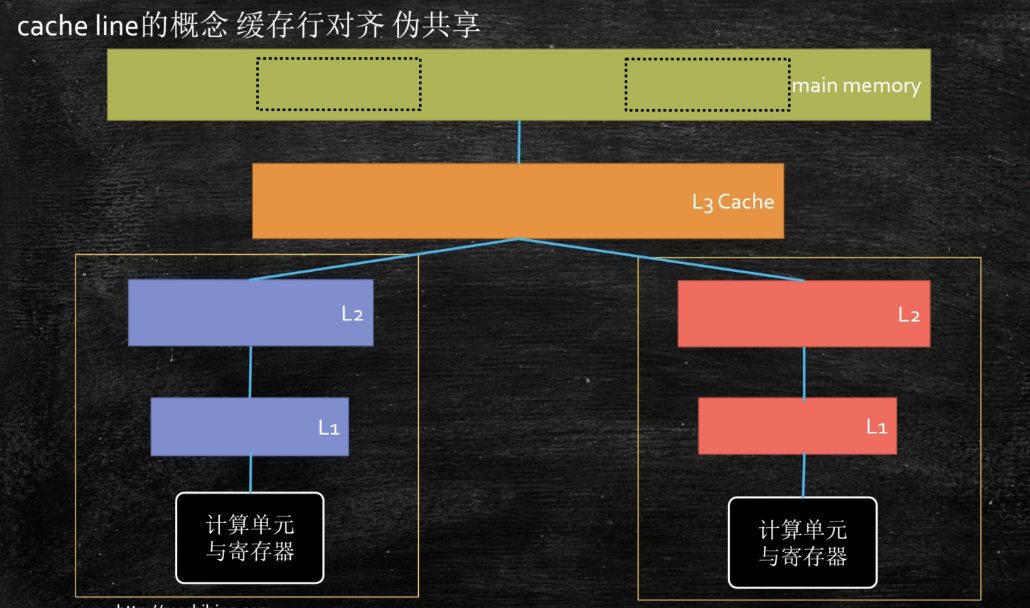
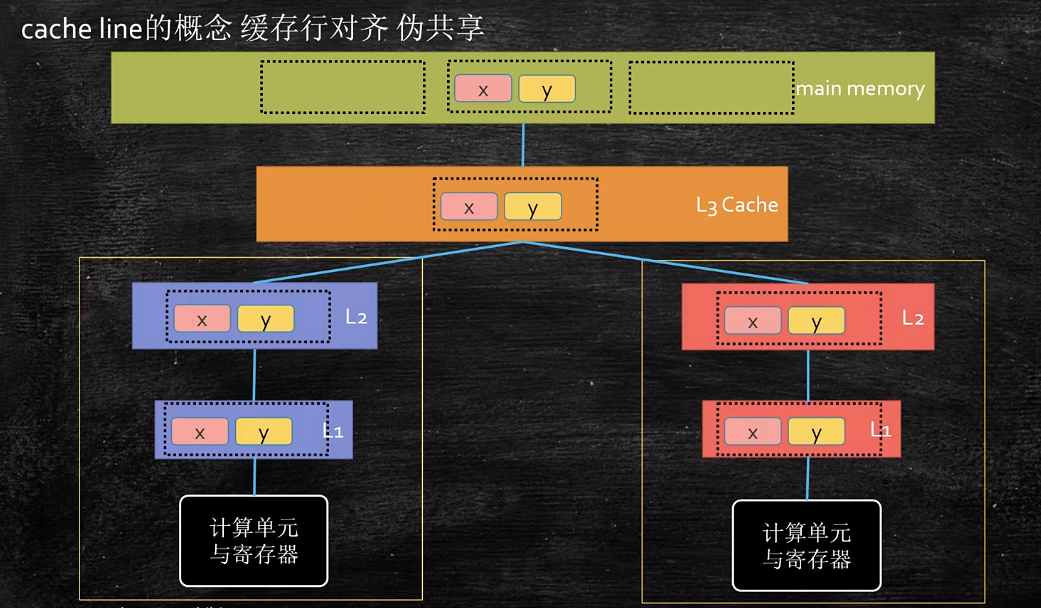
更新 多线程与高并发（六）：并发编程三大特性

diff --git a/notes/多线程与高并发（六）：并发编程三大特性.md b/notes/多线程与高并发（六）：并发编程三大特性.md
@@ -83,7 +83,7 @@
   }
   ```
 
-**三级缓存**
+#### 1.1 三级缓存
 
   ![多线程与高并发（六）：三级缓存.png](./pics/多线程与高并发（六）：三级缓存.png)
 
@@ -91,9 +91,67 @@
 
   Registers(寄存器中)取数顺序：L1、L2、L3、内存
 
-**缓存行**
+#### 1.2 缓存行
 - 按块读取（缓存行）：程序局部性原理，可以提高效率，充分发挥总线CPU针脚等一次性读取更多数据的能力；
 
   ![多线程与高并发（六）：cache-line.png](./pics/多线程与高并发（六）：cache-line.png)
 
   - 一个缓存行大小为64字节
+  - 通过变量凑字节数（64字节），来避免同一个缓存中数据被多个CPU修改时，相互干扰，进而提高效率；
+  - 缓存行概念与 volatile 概念没有关系
+
+  ```java
+  package com.lele.juc.c_001_02_FalseSharing;
+
+  import java.util.concurrent.CountDownLatch;
+
+  /**
+   * @author: lele
+   * @date: 2021/12/1 7:35
+   * @description:
+   */
+  public class T01_CacheLinePadding {
+      public static long COUNT = 10_0000_0000L;
+
+      private static class T {
+          private long p1,p2,p3,p4,p5,p6,p7; // 避免同一个缓存中数据被多个CPU修改时，相互干扰
+          public long x = 0L;  // 8字节，一个缓存行64字节
+          private long p9,p10,p11,p12,p13,p14,p15;
+      }
+
+      public static T[] arr = new T[2];
+
+      static {
+          arr[0] = new T();
+          arr[1] = new T();
+      }
+
+      public static void main(String[] args) throws Exception {
+          CountDownLatch latch = new CountDownLatch(2);
+
+          Thread t1 = new Thread(() -> {
+              for (long i = 0; i < COUNT; i++) {
+                  arr[0].x = i;
+              }
+
+              latch.countDown();
+          });
+
+          Thread t2 = new Thread(() -> {
+              for (long i = 0; i < COUNT; i++) {
+                  arr[1].x = i;
+              }
+
+              latch.countDown();
+          });
+
+          final long start = System.nanoTime();
+          t1.start();
+          t2.start();
+          latch.await();
+          System.out.println((System.nanoTime() - start)/100_0000);
+      }
+  }
+  ```
+
+#### 1.3 Disruptor中缓存行对齐的写法
